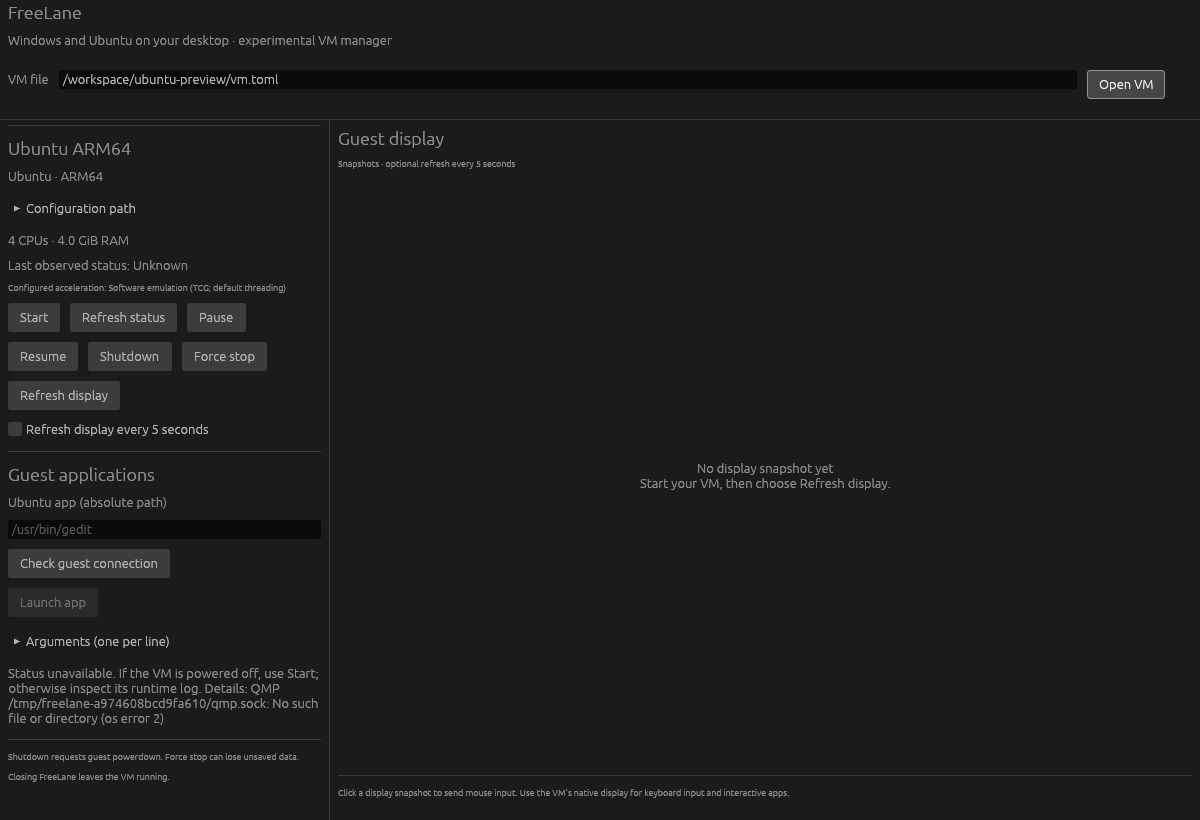
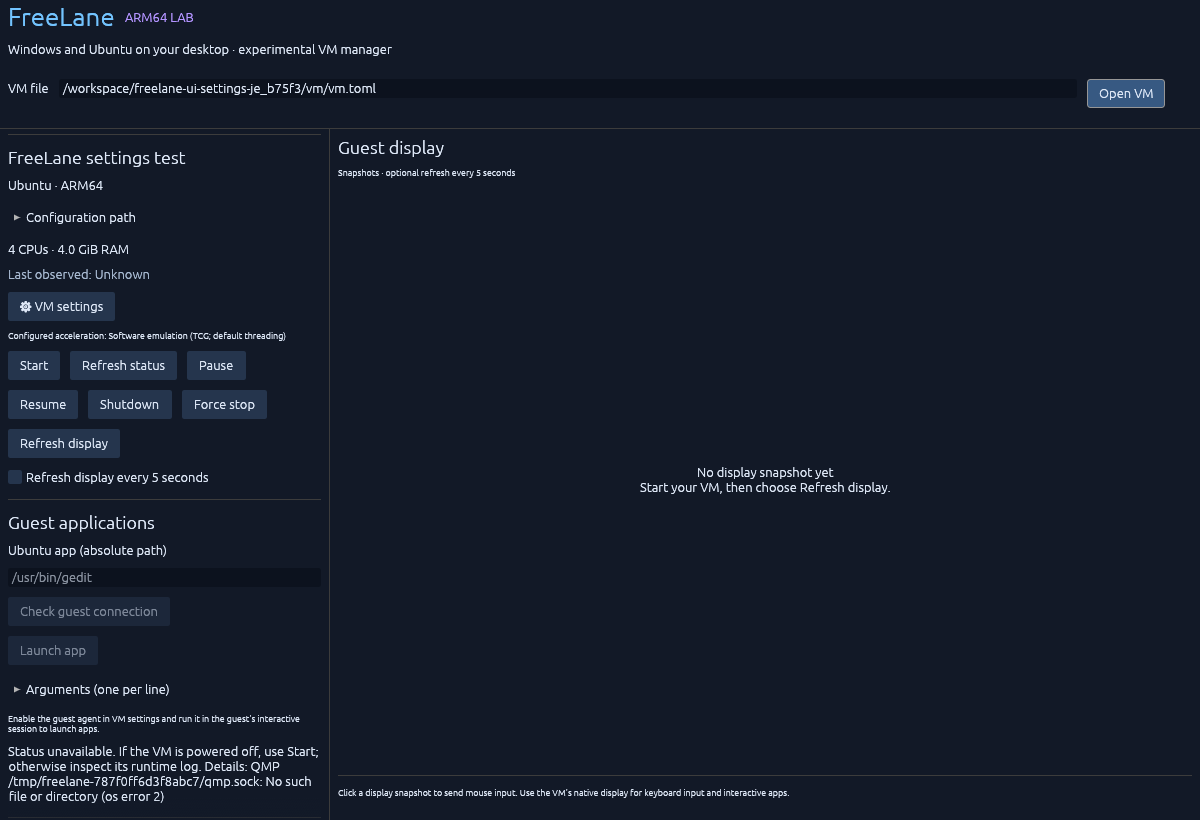
feat(desktop): add colorful theme and virtual hardware settings

diff --git a/crates/desktop/src/main.rs b/crates/desktop/src/main.rs
@@ -12,7 +12,10 @@ use std::{
     time::{Duration, Instant},
 };
 
+#[derive(Clone)]
 struct VmInfo {
+    config: Config,
+    original: String,
     path: PathBuf,
     name: String,
     cpus: u16,
@@ -23,6 +26,7 @@ struct VmInfo {
 }
 enum Event {
     Loaded(VmInfo),
+    Saved(VmInfo, String),
     Status(String),
     Frame(egui::ColorImage, bool),
     Notice(String),
@@ -31,6 +35,10 @@ type WorkResult = Result<Event, String>;
 
 #[derive(Default)]
 struct Desktop {
+    settings_open: bool,
+    settings: Option<Config>,
+    installer_path: String,
+    shared_path: String,
     draft_path: String,
     app_path: String,
     app_arguments: String,
@@ -87,6 +95,8 @@ impl Desktop {
             };
             Ok(Event::Loaded(VmInfo {
                 path,
+                config: config.clone(),
+                original: text,
                 name: config.name,
                 guest_os: config.guest_os,
                 cpus: config.cpus,
@@ -98,6 +108,105 @@ impl Desktop {
                     .is_some_and(|runtime| runtime.guest_agent),
             }))
         });
+    }
+    fn save_settings(&mut self, ctx: &egui::Context) {
+        let (Some(vm), Some(mut config)) = (self.vm.clone(), self.settings.clone()) else {
+            return;
+        };
+        config.installer = (!self.installer_path.trim().is_empty())
+            .then(|| PathBuf::from(self.installer_path.trim()));
+        if let Some(runtime) = config.runtime.as_mut() {
+            runtime.shared_directory = (!self.shared_path.trim().is_empty())
+                .then(|| PathBuf::from(self.shared_path.trim()));
+        }
+        self.work(ctx, move || {
+            let backup =
+                qemu::save_config(&vm.path, &vm.original, &config).map_err(|e| e.to_string())?;
+            let mut updated = vm;
+            updated.original = std::fs::read_to_string(&updated.path).map_err(|e| e.to_string())?;
+            updated.name = config.name.clone();
+            updated.cpus = config.cpus;
+            updated.memory = config.memory_mib;
+            updated.guest_agent = config.runtime.as_ref().is_some_and(|r| r.guest_agent);
+            updated.acceleration = match config.runtime.as_ref().map(|r| r.accelerator) {
+                Some(qemu::Accelerator::Hvf) => "Hardware (HVF; requires Apple Silicon)",
+                Some(qemu::Accelerator::Tcg) => {
+                    "Software emulation (TCG; see settings for threading)"
+                }
+                None => "Runtime not configured",
+            };
+            updated.config = config;
+            Ok(Event::Saved(
+                updated,
+                format!(
+                    "Settings saved for next start. Backup: {}",
+                    backup.display()
+                ),
+            ))
+        });
+    }
+    fn settings_ui(&mut self, ctx: &egui::Context) {
+        if !self.settings_open {
+            return;
+        }
+        let mut open = true;
+        let mut save = false;
+        egui::Window::new("Virtual machine settings").open(&mut open)
+            .default_width(580.0)
+            .default_height(640.0).resizable(true).show(ctx, |ui| {
+            egui::ScrollArea::vertical().max_height(570.0).show(ui, |ui| {
+                let Some(config) = self.settings.as_mut() else { return };
+                ui.label("Changes apply on the next start. Shut down the VM before saving.");
+                ui.separator();
+                ui.heading("Compute resources");
+                ui.horizontal(|ui| { ui.label("Name"); ui.text_edit_singleline(&mut config.name); });
+                ui.add(egui::Slider::new(&mut config.cpus, 1..=64).text("Virtual CPUs"));
+                ui.horizontal(|ui| { ui.label("RAM (MiB)"); ui.add(egui::DragValue::new(&mut config.memory_mib).range(2048..=1_048_576).speed(256)); });
+                ui.small("CPU and RAM are allocated to the guest. GPU sharing and physical USB passthrough are not implemented.");
+                ui.separator();
+                ui.heading("Storage & host files");
+                ui.label(format!("Guest disk: {}", config.disk.display()));
+                ui.label("Installer / CD image (blank to detach)");
+                ui.add(egui::TextEdit::singleline(&mut self.installer_path).desired_width(f32::INFINITY).hint_text("/path/to/installer.iso"));
+                ui.label("Host folder: read-only USB disk (blank to disable)");
+                ui.add(egui::TextEdit::singleline(&mut self.shared_path).desired_width(f32::INFINITY).hint_text("/path/to/files-to-share"));
+                ui.small("Windows and Ubuntu see a FAT USB volume. Use a small dedicated folder (under 504 MiB); do not change its files while the VM runs. No guest writes or automatic two-way sync.");
+                if let Some(runtime) = config.runtime.as_mut() {
+                    ui.separator(); ui.heading("Acceleration & devices");
+                    ui.horizontal(|ui| {
+                        ui.selectable_value(&mut runtime.accelerator, qemu::Accelerator::Hvf, "Mac hardware · HVF");
+                        ui.selectable_value(&mut runtime.accelerator, qemu::Accelerator::Tcg, "Software · TCG");
+                    });
+                    if runtime.accelerator == qemu::Accelerator::Hvf { runtime.tcg_threading = None; }
+                    else { ui.horizontal_wrapped(|ui| {
+                        ui.label("TCG threads");
+                        ui.selectable_value(&mut runtime.tcg_threading, None, "Default");
+                        ui.selectable_value(&mut runtime.tcg_threading, Some(qemu::TcgThreading::Single), "Single");
+                        ui.selectable_value(&mut runtime.tcg_threading, Some(qemu::TcgThreading::Multi), "Multi");
+                    }); }
+                    ui.checkbox(&mut runtime.network, "Guest network · NAT, no forwarded host ports");
+                    if runtime.network {
+                        ui.horizontal_wrapped(|ui| {
+                            ui.label("Network adapter");
+                            ui.selectable_value(&mut runtime.network_device, qemu::NetworkDevice::Virtio, "Virtio PCI");
+                            ui.selectable_value(&mut runtime.network_device, qemu::NetworkDevice::Usb, "USB network");
+                        });
+                    }
+                    ui.checkbox(&mut runtime.headless, "Headless · hide native QEMU window");
+                    ui.checkbox(&mut runtime.guest_agent, "Guest agent channel · agent installation required");
+                    ui.checkbox(&mut runtime.serial_console, "Private serial console socket");
+                    ui.small("TPM, firmware and disk controller are preserved. Network drivers must exist inside the guest.");
+                }
+                ui.separator();
+                if ui.add_enabled(self.pending.is_none() && self.child.is_none(), egui::Button::new("Save settings & create backup").fill(egui::Color32::from_rgb(52, 105, 177))).clicked() { save = true; }
+                ui.small("Saving rewrites TOML formatting; the original file is backed up. Active VMs and conflicting file edits are rejected.");
+                if !self.notice.is_empty() { ui.label(&self.notice); }
+            });
+        });
+        self.settings_open = open;
+        if save {
+            self.save_settings(ctx);
+        }
     }
     fn control(&mut self, ctx: &egui::Context, action: &'static str) {
         let Some(vm) = &self.vm else { return };
@@ -233,6 +342,20 @@ impl Desktop {
                     self.pending = None;
                     match result {
                         Ok(Event::Loaded(vm)) => {
+                            self.settings = Some(vm.config.clone());
+                            self.installer_path = vm
+                                .config
+                                .installer
+                                .as_ref()
+                                .map(|p| p.display().to_string())
+                                .unwrap_or_default();
+                            self.shared_path = vm
+                                .config
+                                .runtime
+                                .as_ref()
+                                .and_then(|r| r.shared_directory.as_ref())
+                                .map(|p| p.display().to_string())
+                                .unwrap_or_default();
                             self.vm = Some(vm);
                             self.texture = None;
                             self.auto_display = false;
@@ -240,6 +363,14 @@ impl Desktop {
                             self.notice.clear();
                             self.status = "Not checked".into();
                             self.control(ctx, "status");
+                        }
+                        Ok(Event::Saved(vm, notice)) => {
+                            self.vm = Some(vm);
+                            self.notice = notice;
+                            self.settings_open = false;
+                            self.status = "Not checked".into();
+                            self.texture = None;
+                            self.auto_display = false;
                         }
                         Ok(Event::Status(status)) => {
                             self.status = status;
@@ -312,8 +443,17 @@ impl eframe::App for Desktop {
     fn ui(&mut self, ui: &mut egui::Ui, _: &mut eframe::Frame) {
         let ctx = ui.ctx().clone();
         self.receive(&ctx);
+        self.settings_ui(&ctx);
         egui::Panel::top("header").show(ui, |ui| {
-            ui.heading("FreeLane");
+            ui.horizontal(|ui| {
+                ui.colored_label(
+                    egui::Color32::from_rgb(115, 196, 255),
+                    egui::RichText::new("FreeLane").size(26.0).strong(),
+                );
+                ui.label(
+                    egui::RichText::new("ARM64 LAB").color(egui::Color32::from_rgb(178, 147, 255)),
+                );
+            });
             ui.label("Windows and Ubuntu on your desktop · experimental VM manager");
             ui.add_space(12.0);
             ui.horizontal(|ui| {
@@ -348,7 +488,9 @@ impl eframe::App for Desktop {
                 ui.label(match vm.guest_os { GuestOs::Ubuntu => "Ubuntu · ARM64", GuestOs::Windows => "Windows · ARM64" });
                 ui.collapsing("Configuration path", |ui| { ui.label(vm.path.display().to_string()); });
                 ui.label(format!("{} CPUs · {:.1} GiB RAM", vm.cpus, vm.memory as f64 / 1024.0));
-                ui.label(format!("Last observed status: {}", self.status));
+                let color = if self.status == "running" { egui::Color32::from_rgb(105, 220, 166) } else if self.status == "paused" { egui::Color32::from_rgb(255, 199, 104) } else { egui::Color32::from_rgb(166, 184, 208) };
+                ui.colored_label(color, format!("Last observed: {}", self.status));
+                if ui.add_enabled(self.pending.is_none(), egui::Button::new("⚙ VM settings")).clicked() { self.notice.clear(); self.settings_open = true; }
                 ui.small(format!("Configured acceleration: {}", vm.acceleration));
                 let busy = self.pending.is_some();
                 ui.horizontal_wrapped(|ui| {
@@ -438,7 +580,17 @@ fn main() -> eframe::Result {
             ..Default::default()
         },
         Box::new(move |creation| {
+            creation.egui_ctx.set_theme(egui::Theme::Dark);
             creation.egui_ctx.global_style_mut(|style| {
+                style.visuals.panel_fill = egui::Color32::from_rgb(18, 25, 39);
+                style.visuals.window_fill = egui::Color32::from_rgb(25, 34, 51);
+                style.visuals.extreme_bg_color = egui::Color32::from_rgb(12, 18, 30);
+                style.visuals.selection.bg_fill = egui::Color32::from_rgb(57, 105, 178);
+                style.visuals.widgets.inactive.bg_fill = egui::Color32::from_rgb(37, 53, 77);
+                style.visuals.widgets.inactive.weak_bg_fill = egui::Color32::from_rgb(37, 53, 77);
+                style.visuals.widgets.hovered.bg_fill = egui::Color32::from_rgb(55, 89, 130);
+                style.visuals.widgets.hovered.weak_bg_fill = egui::Color32::from_rgb(55, 89, 130);
+                style.visuals.override_text_color = Some(egui::Color32::from_rgb(222, 232, 247));
                 style.spacing.item_spacing = egui::vec2(10.0, 10.0);
                 style.spacing.button_padding = egui::vec2(12.0, 7.0);
             });

diff --git a/docs/desktop.md b/docs/desktop.md
@@ -14,4 +14,14 @@ Linux verification used an authenticated Xvfb display, not a browser preview: ac
 
 The optional app controls use the same bounded guest-agent protocol as the CLI. Check guest connection sends ping. Launch app sends an absolute Windows .exe path or Ubuntu executable path and arguments as literal strings, with one argument per line, using no implicit shell. Buttons require guest_agent=true in the loaded configuration and a running agent in the guest (Windows also needs a compatible ARM64 serial driver). A process-start response does not verify the app window or its behavior. Requests are not automatically retried; a launch timeout leaves execution outcome unknown. The GUI timeout path was exercised against a real QEMU socket without an agent: it returned an error after the deadline, remained responsive, and kept VM status running. Successful GUI connection and launch were subsequently exercised over the real virtio driver in WinPE: it opened 7-Zip with a literal archive path containing spaces and an ampersand, and the correct window/file entry appeared. Installed Audit verification also observed GUI ping returning Windows/aarch64 and GUI Launch opening Notepad. Text was entered using diagnostic CLI keyboard controls, saved, closed and reopened via the real guest transport. Installed 7-Zip opened a persisted archive and its GUI Test reported no errors. Normal user sessions and native Mac validation remain separate gates.
 
-The revised sidebar layout was opened with the existing Ubuntu profile on authenticated Linux Xvfb at 1200 × 820 and resized to 800 × 600. The path field fit both widths and controls remained accessible through sidebar scrolling. The guest remained powered off during this layout check, so its unavailable QMP status is shown honestly in the [recorded manager image](assets/desktop-manager.png). Build, format, Clippy, 42 portable Rust tests and the macOS ARM64 desktop cross-check passed. The six opt-in QEMU tests were not rerun for this layout change; native Mac GUI execution remains unverified.
+## Settings and appearance
+
+The blue/purple dark theme uses colored status text and a resizable controls sidebar. **VM settings** edits name, virtual CPU count, RAM in MiB, acceleration, TCG threading, NAT and network adapter, headless display, guest agent, UART console, installer image and read-only host folder. Firmware, TPM, guest disk and disk controller are preserved. Paths may be absolute or relative to the configuration directory. Clearing media/share paths detaches them on the next start.
+
+Save creates a private backup beside `vm.toml`, validates the configuration/device plan and atomically replaces the file. TOML comments and formatting are retained in the backup, rather than in the rewritten file. The VM's runtime lock prevents saving while it is active, including when another manager started it. Changed on-disk text is rejected so the user can reopen it first. Changes take effect at the next start; device hot-plug is not implemented.
+
+See [host file sharing](sharing.md) for the USB FAT limits and guest behavior. Physical GPU/USB passthrough and two-way folder synchronization are not implemented.
+
+The GUI was exercised on authenticated Linux Xvfb: a disposable Ubuntu profile was opened, its name and host share path were changed through the settings form, Save was clicked, and the actual file and original backup were independently checked. The guest remained powered off for this UI check. The earlier responsive layout was also inspected at 1200 × 820 and 800 × 600. [Manager capture](assets/desktop-manager.png) and [settings capture](assets/desktop-settings.png) show the real GUI, not mockups. Native Mac GUI execution still requires hardware validation.
+
+Validation for these settings/sharing changes passed 44 portable Rust tests, two real QEMU EFI media/profile tests with the shared USB volume, workspace build, format/Clippy and the macOS ARM64 desktop cross-check. The other four opt-in QEMU tests were not rerun for this change. Installed guest mounting and native Mac execution remain unverified.

diff --git a/README.md b/README.md
@@ -11,11 +11,11 @@ Runtime evidence below comes from **Linux cloud software emulation (TCG)**. macO
 | Component | Implemented or observed | Remaining validation |
 | --- | --- | --- |
 | VM management | Windows/Ubuntu profiles, disk initialization, private firmware state, start/status/pause/resume/shutdown | Native Mac runtime and everyday reliability |
-| Desktop manager | Resizable controls sidebar, guest display snapshots, mouse clicks, optional five-second refresh, guest app requests | Native Mac GUI; continuous video and keyboard forwarding are not implemented |
+| Desktop manager | Blue-accented controls sidebar, editable VM settings, guest display snapshots, mouse clicks, optional five-second refresh, guest app requests | Native Mac GUI; continuous video and keyboard forwarding are not implemented |
 | Windows 11 ARM | Installed Audit desktop; 7-Zip x86/x64/ARM64 archive checks; Notepad save/close/reopen | Normal user setup, stability and application coverage; an earlier kernel crash remains unresolved |
 | Ubuntu ARM64 | Ubuntu Server 24.04.5 cloud image; unprivileged agent; file/copy/gzip/ZIP checks; exact data retained after reboot | Ubuntu Desktop, GUI apps, networking and native Mac execution |
 | MCP | Real stdio/QEMU tests, development jobs, VM controls, PNG capture and guest ping/launch | Configuration in each editor; no remote Mac is automatically provisioned |
-| Graphics and integration | Basic QEMU display and literal executable launch | Accelerated graphics, games, clipboard, shared folders and seamless app windows |
+| Graphics and integration | Basic QEMU display, literal executable launch and opt-in read-only host folder as USB FAT media | Accelerated graphics, games, clipboard, two-way folder sync and seamless app windows |
 
 Ubuntu Server was deployed from an official preinstalled cloud image with NoCloud provisioning, **not** installed through the graphical Ubuntu installer. A process-start response only confirms that the guest started a process; it does not prove that an application works.
 
@@ -54,7 +54,9 @@ The desktop's **Open VM** loads the selected configuration. Editing the path doe
 
 See [desktop instructions](docs/desktop.md) and [guest-agent setup](docs/guest-agent.md). The optional agent launches an absolute Windows `.exe` or Linux executable with literal arguments; it must be installed and running inside the guest.
 
-The updated manager below has the saved Ubuntu configuration loaded while the guest is powered off; no guest frame is shown.
+Use **VM settings** to change CPU count, RAM, HVF/TCG, TCG threading, NAT/network adapter, native display, guest-agent channel, serial console and installer media. Settings are saved only while the VM is stopped, with a backup and conflict detection. The host folder option exposes a small folder as a **read-only USB FAT volume**; it is not two-way synchronization or physical-device passthrough. See [sharing limits and setup](docs/sharing.md).
+
+The updated manager below has a disposable Ubuntu profile loaded while the guest is powered off; no guest frame is shown.
 
 ![FreeLane desktop manager with resizable sidebar](docs/assets/desktop-manager.png)
 

diff --git a/docs/development.md b/docs/development.md
@@ -55,7 +55,7 @@ cargo run --locked -- shutdown /absolute/path/to/new-vm/vm.toml
 
 `shutdown` requests guest powerdown; it does not claim the guest has shut down. Prefer it before `stop` or Ctrl-C, which end the host process without saving guest memory and can interrupt guest disk writes. Pausing does not return all guest RAM.
 
-Networking is off by default. `network = true` enables user-mode networking with no forwarded host ports. Virtio PCI serial and network devices explicitly disable legacy port I/O on ARM. The default `network_device = "virtio"` requires a compatible ARM64 virtio network driver. `network_device = "usb"` selects QEMU USB networking as a compatibility experiment; its attachment is tested under UEFI, while Windows driver and connectivity validation are separate checks. An opt-in [guest agent](guest-agent.md) supplies ping/launch requests. The ARM64 agent answered ping and opened actual Notepad/7-Zip windows through virtio serial in WinPE and the installed Audit session; normal user-session setup remains unverified. Clipboard/shared-folder/application-window integration is not implemented yet.
+Networking is off by default. `network = true` enables user-mode networking with no forwarded host ports. Virtio PCI serial and network devices explicitly disable legacy port I/O on ARM. The default `network_device = "virtio"` requires a compatible ARM64 virtio network driver. `network_device = "usb"` selects QEMU USB networking as a compatibility experiment; its attachment is tested under UEFI, while Windows driver and connectivity validation are separate checks. An opt-in [guest agent](guest-agent.md) supplies ping/launch requests. The ARM64 agent answered ping and opened actual Notepad/7-Zip windows through virtio serial in WinPE and the installed Audit session; normal user-session setup remains unverified. Opt-in [read-only host-folder transfer](sharing.md) uses a virtual USB FAT disk. Clipboard, two-way shared-folder integration and individual application windows are not implemented yet.
 
 For a headless guest, capture its display and send a keyboard chord directly:
 

diff --git a/docs/guest-agent.md b/docs/guest-agent.md
@@ -61,7 +61,7 @@ The example PID is a protocol illustration, not a test result. Ping responds wit
 
 Run `cargo test --locked --workspace` to include the shared protocol and guest request-handler suites. The QEMU UEFI test verifies that the configured virtio-serial channel is attached and its socket is cleaned up; it does not contain a Windows driver or execute the Windows agent. `cargo check --locked -p freelane-guest-agent --target aarch64-pc-windows-msvc` checks the Windows ARM64 branch but does not link an executable or run it.
 
-Clipboard, shared-folder access, guest service installation, application-window integration and save/restore are still outstanding.
+Clipboard, agent-mediated shared-folder access, guest service installation, application-window integration and save/restore are still outstanding. A separate [read-only USB host-folder transfer](sharing.md) does not use the agent.
 
 ## Real transport and app evidence
 
